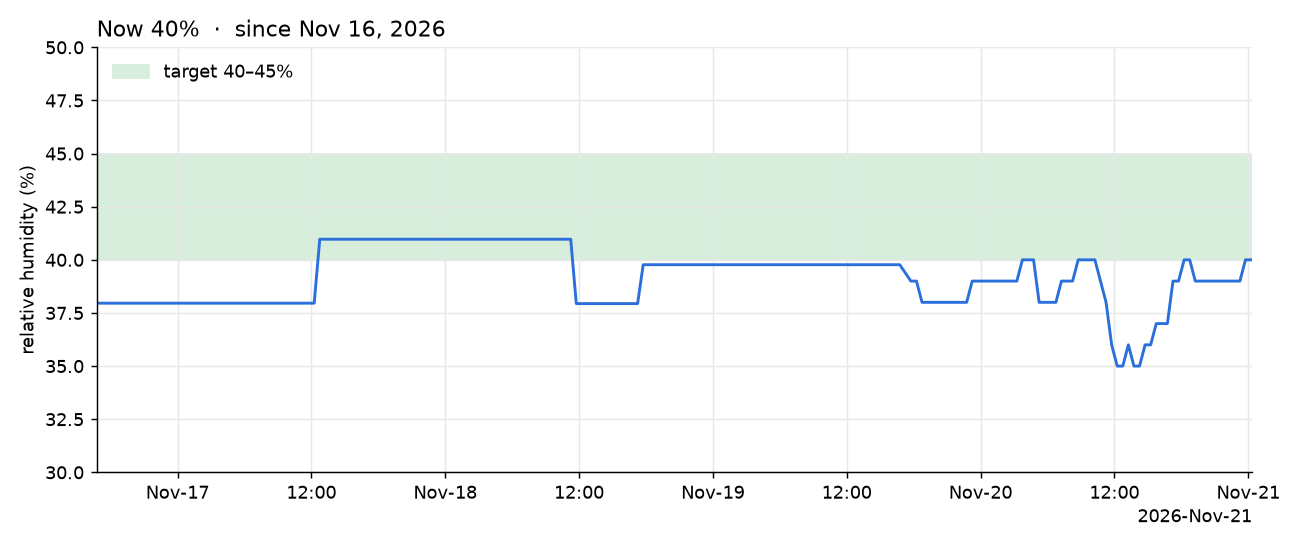
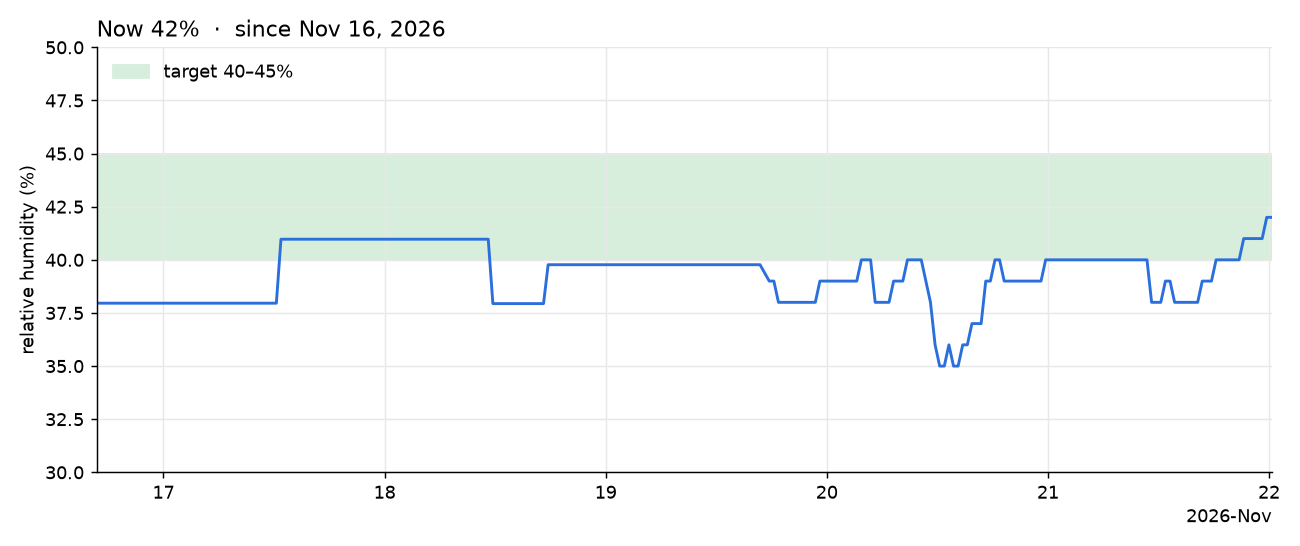
Daily update 2026-11-22

diff --git a/index.html b/index.html
@@ -13,10 +13,10 @@ img{width:100%;height:auto;display:block;border-radius:6px;background:#fff}
 footer{color:var(--muted);font-size:13px}
 </style></head><body><main>
 <h1>Home</h1>
-<p class="sub">Updated daily; last update Nov 21, 2026 12:20 AM.</p>
-<section><h2>Piano humidity</h2><img src="piano-humidity.png?v=202611210020" alt="Humidity at the piano since the sensor was installed, with the 40 to 45 percent target band"></section>
+<p class="sub">Updated daily; last update Nov 22, 2026 12:20 AM.</p>
+<section><h2>Piano humidity</h2><img src="piano-humidity.png?v=202611220020" alt="Humidity at the piano since the sensor was installed, with the 40 to 45 percent target band"></section>
 <h1>Outdoor light</h1>
 <p class="sub">Light level outside, one line per day, each month on its own chart.</p>
-<section><h2>November 2026</h2><img src="2026-11.png?v=20261121" alt="Outdoor light in November 2026, one line per day"></section>
+<section><h2>November 2026</h2><img src="2026-11.png?v=20261122" alt="Outdoor light in November 2026, one line per day"></section>
 <footer>Humidity: a sensor at the piano, shown as the 30-minute median. Light: measured by an outdoor light sensor, every few minutes, shown as the 10-minute median. The scale is logarithmic: each gridline is ten times brighter than the one below.</footer>
 </main></body></html>
